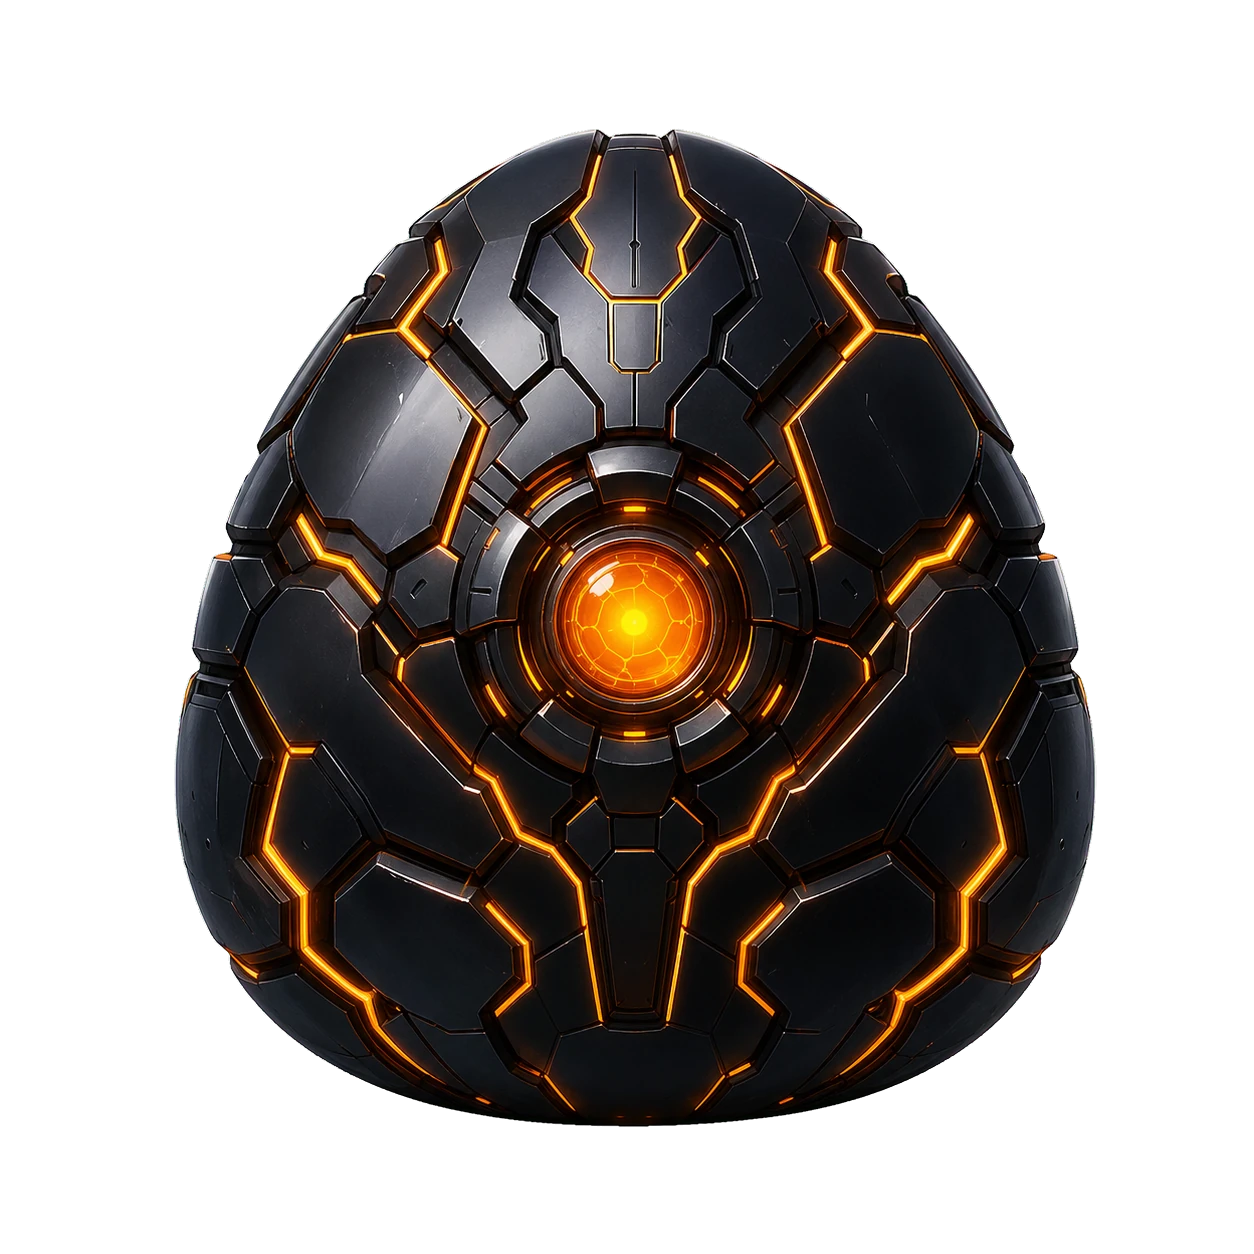
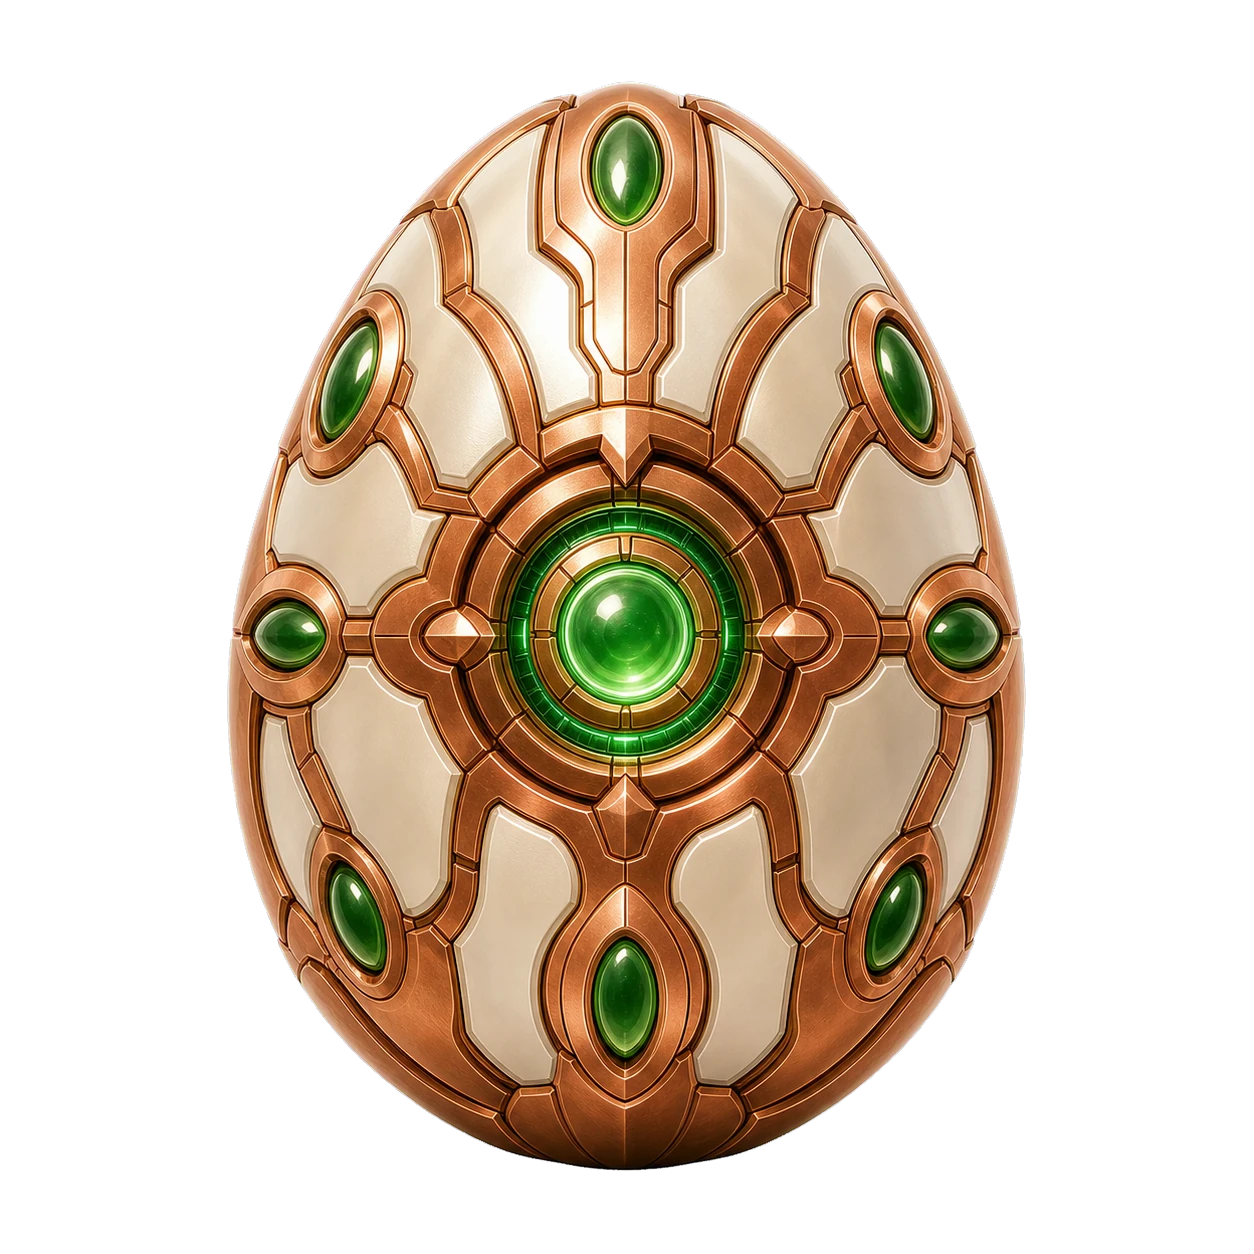
feat: regenerate blind box egg art

diff --git a/apps/web/src/workflows/operation-recovery/OperationRegistryProvider.tsx b/apps/web/src/workflows/operation-recovery/OperationRegistryProvider.tsx
@@ -1061,8 +1061,8 @@ function gachaReferencePath(input: unknown): string {
   if (input && typeof input === "object" && "tier" in input) {
     const tier = input.tier;
     if (tier === "normal") return "/assets/boxes/normal.webp";
-    if (tier === "rare") return "/assets/boxes/legendary.webp";
-    if (tier === "legendary") return "/assets/boxes/rare.webp";
+    if (tier === "rare") return "/assets/boxes/rare.webp";
+    if (tier === "legendary") return "/assets/boxes/legendary.webp";
   }
   return "/assets/boxes/legendary.webp";
 }
